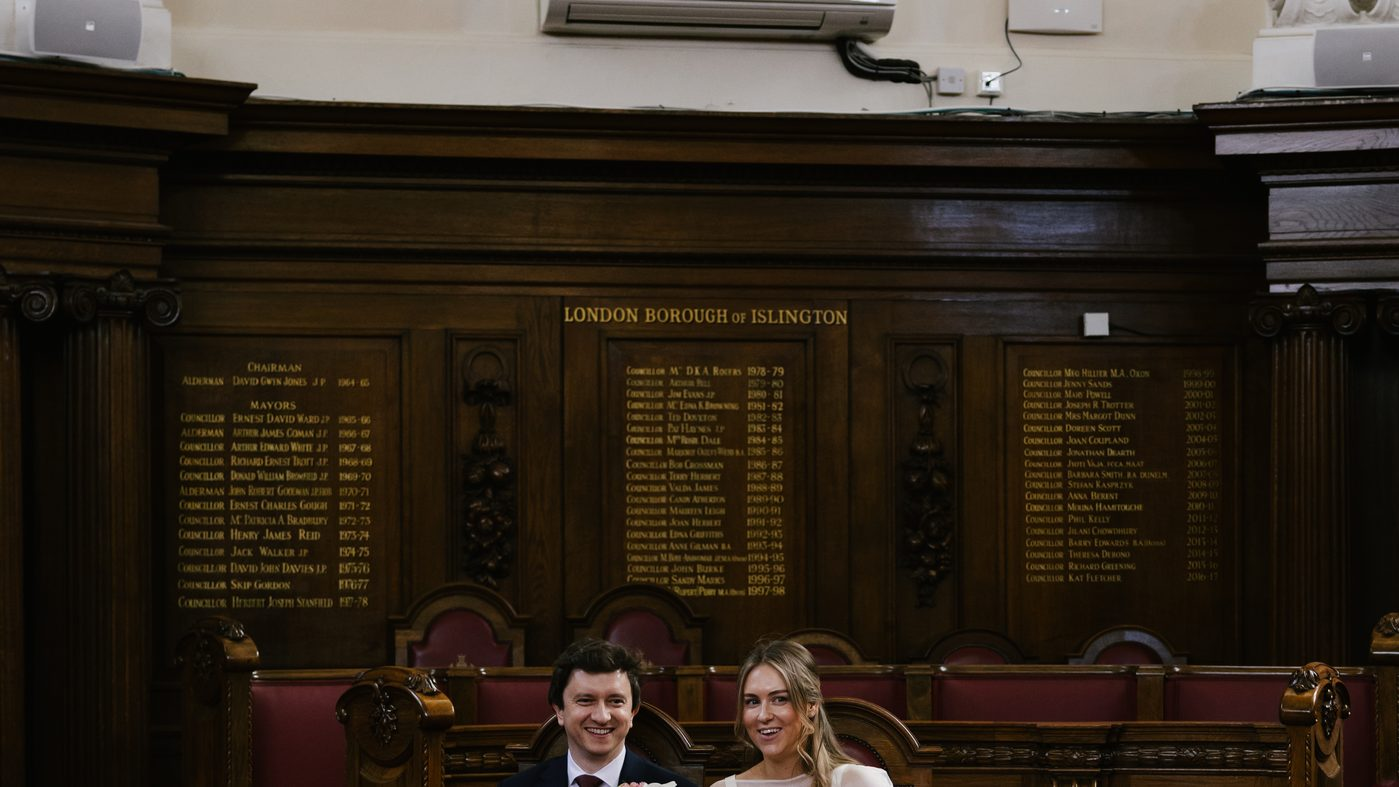
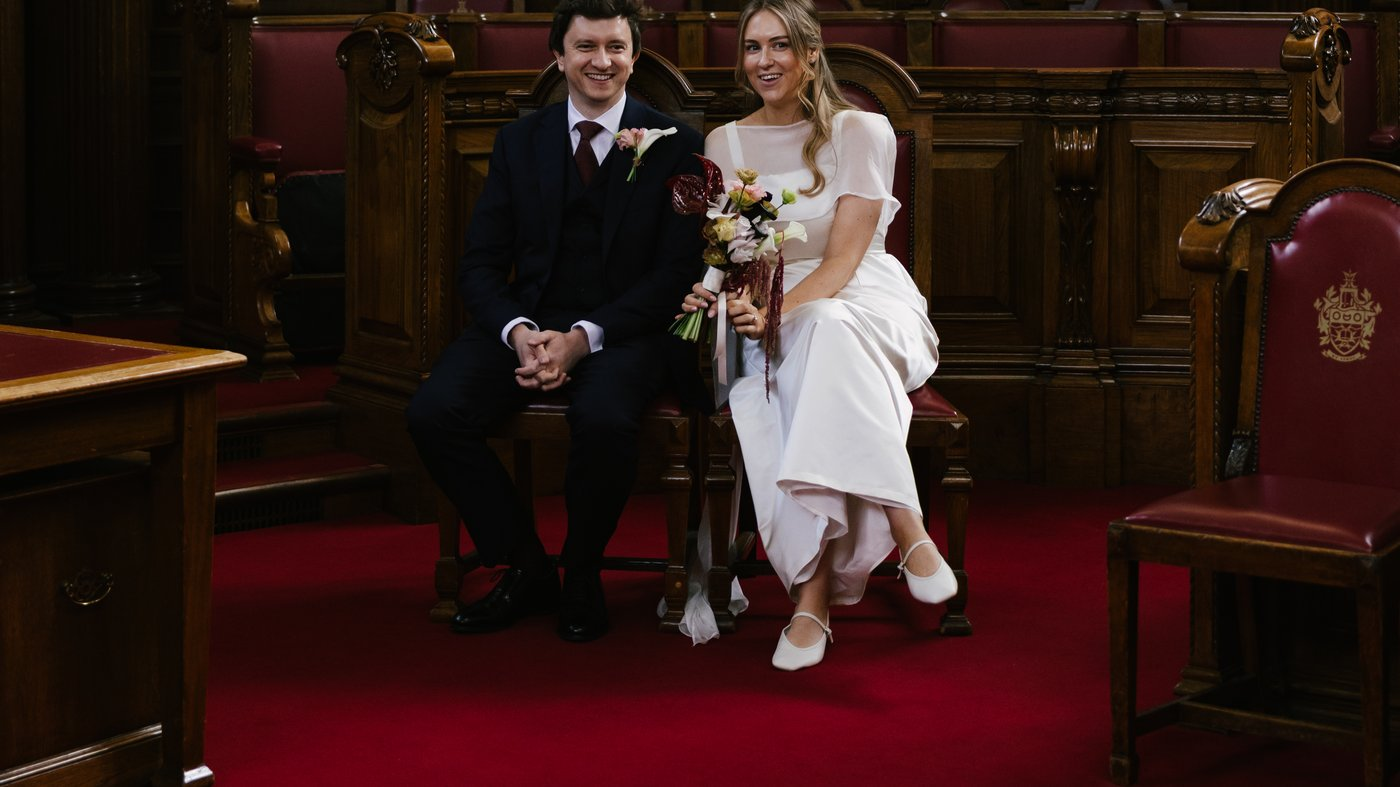
Add files via upload

diff --git a/journal/index.html b/journal/index.html
@@ -334,7 +334,7 @@ footer p { font-size: .68rem; color: rgba(255,255,255,.28); letter-spacing: .06e
       <div class="card-img">
         <img src="images/hero-intimate-suit.jpg"
              alt="Harriet and Umberto laughing together at Islington Town Hall"
-             width="1399" height="787" loading="lazy" style="object-position:center 20%">
+             width="1399" height="787" loading="lazy">
       </div>
       <p class="card-cat">Intimate Weddings</p>
       <h3 class="card-title">Does an Intimate Wedding Actually Suit You?</h3>
